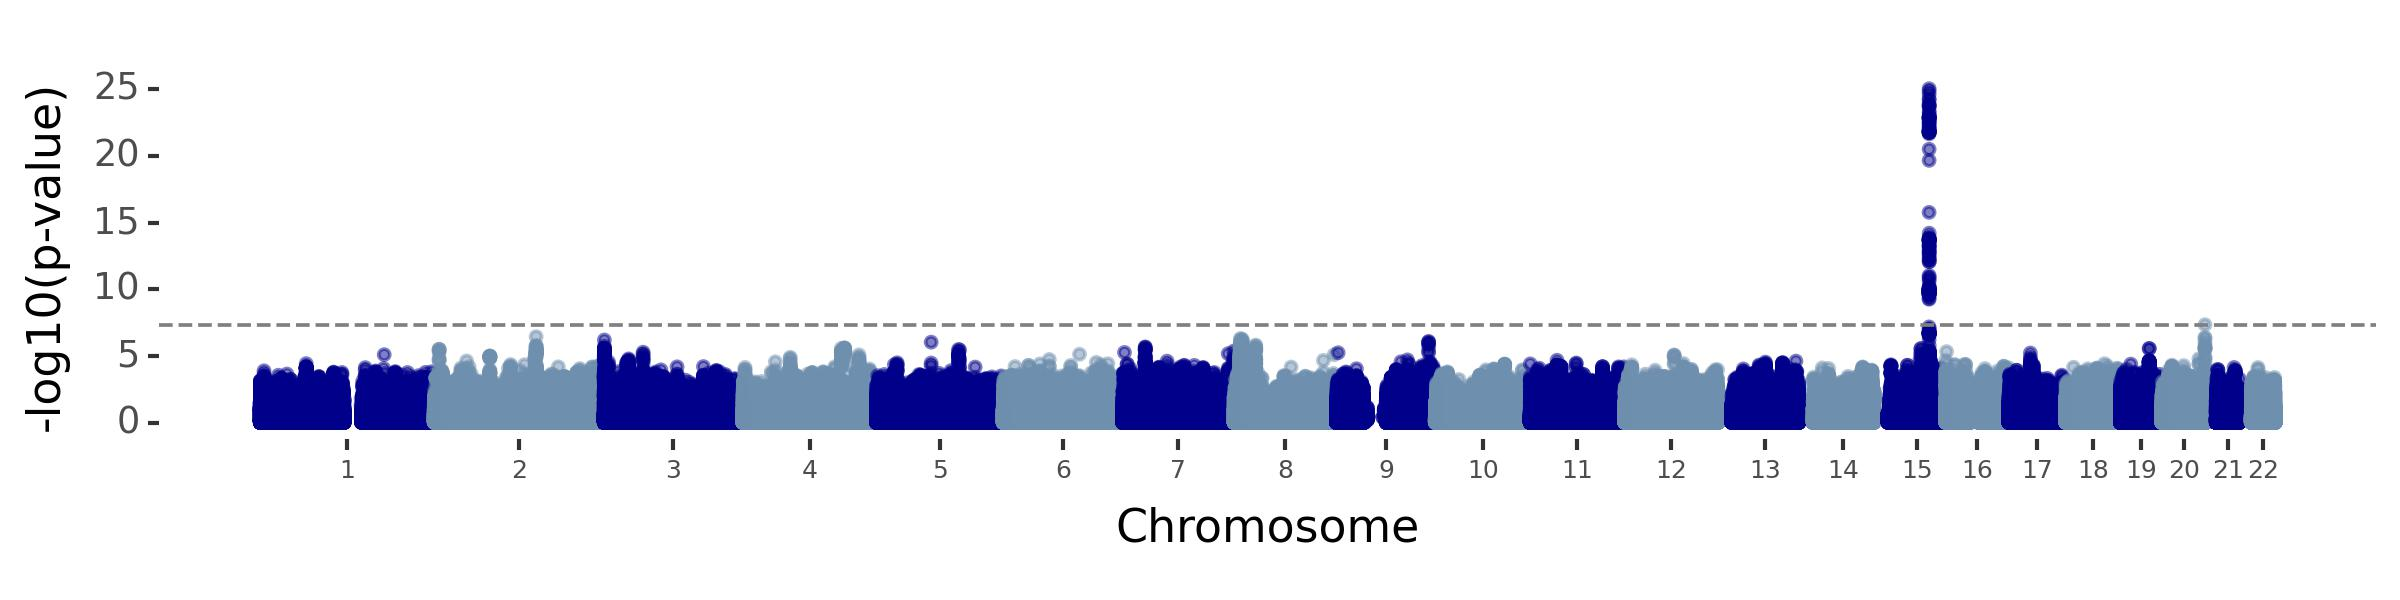
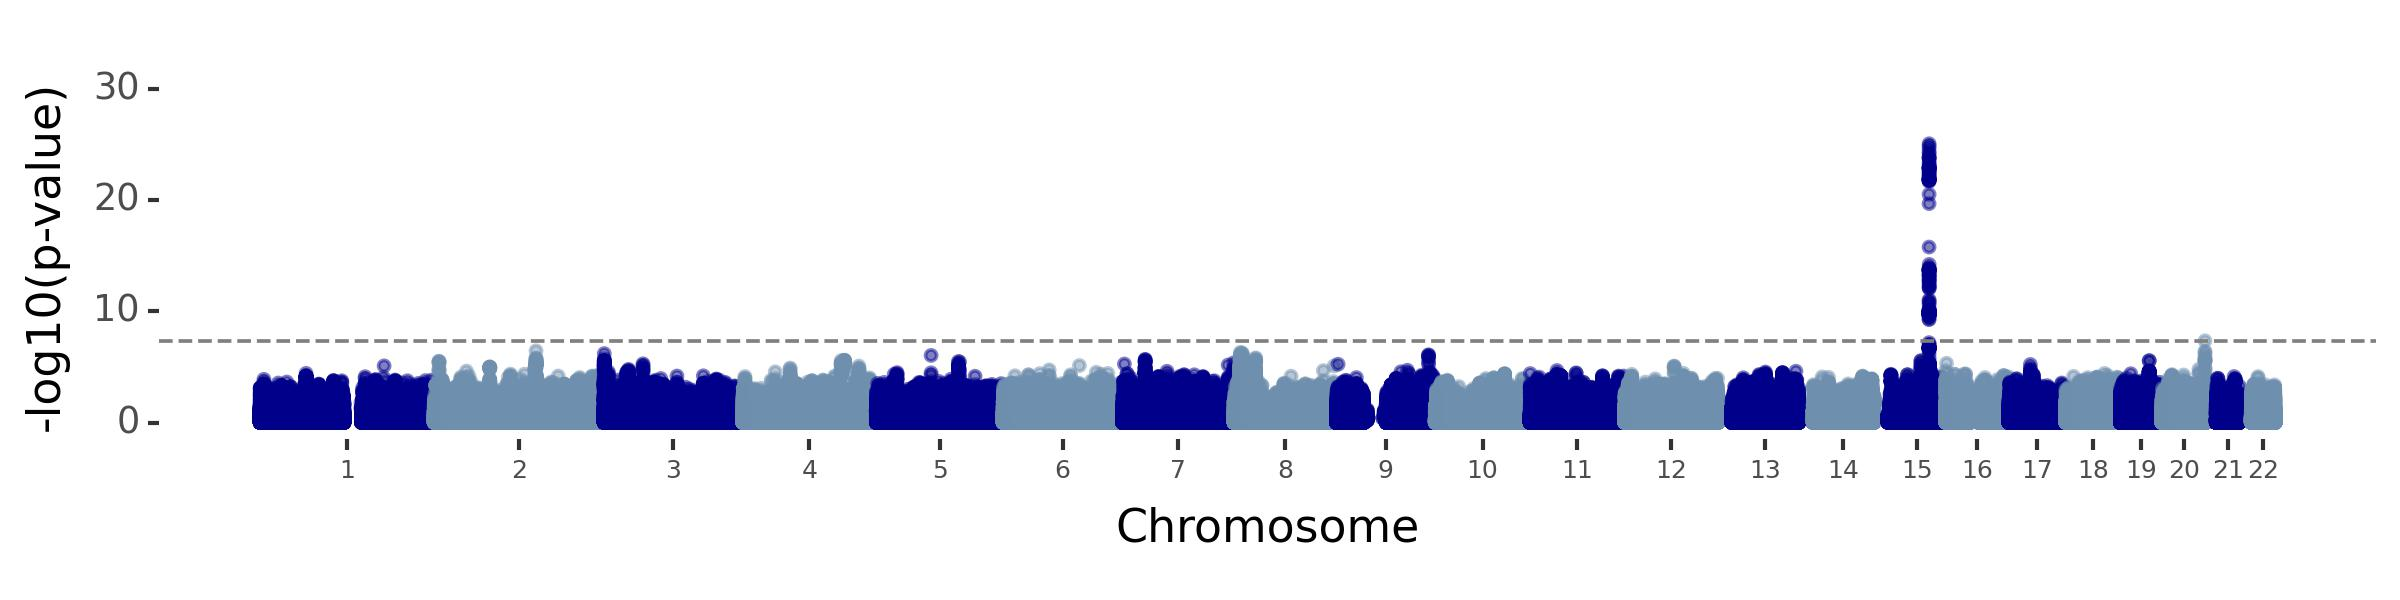
added test and updated ylim of manhattan plots

diff --git a/analysis/test_analysis.py b/analysis/test_analysis.py
@@ -53,7 +53,7 @@ class TestUKBBPrevCoPrev(unittest.TestCase):
                 self.assertEqual(row['Count_ukbb'],'Diagnoses <= 20')
                 self.assertEqual(row['Prev_ukbb'],'Diagnoses <= 20')
             else:
-                self.assertEqual(int(row['Count_ukbb']),df.iloc[0]['count'])
+                self.assertEqual(int(row['Count_ukbb']),df.iloc[0]['count']), f"not working for row {row}"
                 self.assertEqual(float(row['Prev_ukbb']),int(row['Count_ukbb'])/int(row['N_ukbb']))
         # PII check - counts greater than 20
         # assert that no counts less than 20
@@ -194,7 +194,9 @@ class TestGWAS(unittest.TestCase):
         self.imputation_dir = f'{ukbb_data_dir}/ImputationV3'
         # Create the database engine using the configuration
         self.engine = create_engine(f'postgresql://{username}:{password}@{host}/{database}')
-        self.covar_iids = set(pd.read_csv(f'{self.Atlas2AoU_gwas_dir}/COVARIATE_FILE').IID.unique())
+        self.covar_iids = set(pd.read_csv(f'{ukbb_data_dir}/anewbury/COVARIATE_FILE').IID.unique())
+        # for checking qc
+        self.qc_data = pd.read_csv(f'{ukbb_data_dir}/anewbury/SNPS/qc_data.csv')
     
     # read in pheno file and make sure correct
     def test_pheno_file(self):
@@ -227,10 +229,10 @@ class TestGWAS(unittest.TestCase):
                         if line.startswith(f"  --{param}"):
                             self.assertEqual(line, f"  --{param} {param_value}\n")
         # test genotype qc - 
-        with open(f'{self.ukbb_data_dir}/anewbury/SNPS/pass_info_score_and_dup.txt') as f:
+        with open(f'{ukbb_data_dir}/anewbury/SNPS/pass_info_score_and_dup.txt') as f:
             passed_gqc = f.readlines()
             passed_gqc = [i.strip('\n') for i in passed_gqc]
-        file_qc_bim_df = pd.read_csv(f'{self.ukbb_data_dir}/anewbury/SNPS/FILE_QC.bim', sep='\t', header=None)
+        file_qc_bim_df = pd.read_csv(f'{ukbb_data_dir}/anewbury/SNPS/FILE_QC.bim', sep='\t', header=None)
         file_qc_bim_df.columns = ['#CHROM', 'ID', 'cM', 'POS', 'Allele1', 'Allele2']
         file_qc_bim_df['passed'] = file_qc_bim_df['ID'].isin(passed_gqc)
         # ensure no duplicate rsids
@@ -262,27 +264,27 @@ class TestGWAS(unittest.TestCase):
         # check numbers
         assert len(passed_gqc) == 3686405
         # test that passed_gqc are the only ones in FINAL_QC.bim
-        final_qc_bim_df = pd.read_csv(f'{self.ukbb_data_dir}/anewbury/SNPS/FINAL_QC.bim', sep='\t', header=None)
+        final_qc_bim_df = pd.read_csv(f'{ukbb_data_dir}/anewbury/SNPS/FINAL_QC.bim', sep='\t', header=None)
         final_qc_bim_df.columns = ['#CHROM', 'ID', 'cM', 'POS', 'Minor Allele', 'Major Allele']
         assert set(final_qc_bim_df.ID.unique()) == set(passed_gqc)
 
         # test sample qc - 
         # check that all samples in sample_out are: (1) not negative IIDs (not withdrawn) (2) not with F_MISS above 0.05 (not missing) (3) not in king matrix more than 10 times
-        passed_sqc = pd.read_csv(f'{self.ukbb_data_dir}/anewbury/SNPS/pass_sample_qc.txt', sep='\t', header = None)
+        passed_sqc = pd.read_csv(f'{ukbb_data_dir}/anewbury/SNPS/pass_sample_qc.txt', sep='\t', header = None)
         passed_sqc.columns = ['FID','IID']
         passed_sqc = passed_sqc.IID.unique().tolist()
         assert all([i>0 for i in passed_sqc]) # none withdrawn
-        miss = pd.read_csv(f'{self.ukbb_data_dir}/DirectAssayed/sample_qc/missing.imiss', sep='\s+')
+        miss = pd.read_csv(f'{ukbb_data_dir}/DirectAssayed/sample_qc/missing.imiss', sep='\s+')
         assert miss[(miss.IID.isin(passed_sqc))&(miss.F_MISS>0.05)].shape[0] == 0 # not missing
-        result = subprocess.run(['cmp', '-s', f'{self.ukbb_data_dir}/anewbury/SNPS/pass_sample_qc.txt', f'{self.ukbb_data_dir}/DirectAssayed/sample_qc/kingunrelated.txt'], capture_output=True)
+        result = subprocess.run(['cmp', '-s', f'{ukbb_data_dir}/anewbury/SNPS/pass_sample_qc.txt', f'{ukbb_data_dir}/DirectAssayed/sample_qc/kingunrelated.txt'], capture_output=True)
         assert result.returncode == 0
 
         # check that all other samples in FILE_QC are one of the following ^ and make sure qc data matches
         # read in file_qc_fam
-        fam_df = pd.read_csv(f'{self.ukbb_data_dir}/DirectAssayed/merged_direct.fam', sep='\t', header=None)
+        fam_df = pd.read_csv(f'{ukbb_data_dir}/DirectAssayed/merged_direct.fam', sep='\t', header=None)
         fam_df.columns = ['FID', 'IID', 'Father', 'Mother', 'Sex', 'Phenotype']
         not_passed_sqc = set(fam_df.IID.unique().tolist())-set(passed_sqc)
-        imputed_fam_df = pd.read_csv(f'{self.ukbb_data_dir}/anewbury/SNPS/FILE_QC.fam', sep='\s+', header=None)
+        imputed_fam_df = pd.read_csv(f'{ukbb_data_dir}/anewbury/SNPS/FILE_QC.fam', sep='\s+', header=None)
         imputed_fam_df.columns = ['FID', 'IID', 'Father', 'Mother', 'Sex', 'Phenotype']
         # remove not in imputed
         not_passed_sqc = [i for i in not_passed_sqc if i in imputed_fam_df.IID.unique()]
@@ -296,7 +298,7 @@ class TestGWAS(unittest.TestCase):
         assert self.qc_data[self.qc_data['qc type']=='miss']['# removed'].values[0] == init_len-len(not_passed_sqc)
         # remove high relatedness
         init_len = len(not_passed_sqc)
-        unrelated_toberemoved = pd.read_csv(f'{self.ukbb_data_dir}/DirectAssayed/sample_qc/kingunrelated_toberemoved.txt', sep='\t', header=None)
+        unrelated_toberemoved = pd.read_csv(f'{ukbb_data_dir}/DirectAssayed/sample_qc/kingunrelated_toberemoved.txt', sep='\t', header=None)
         not_passed_sqc = [i for i in not_passed_sqc if i not in unrelated_toberemoved[1].unique().tolist()]
         assert self.qc_data[self.qc_data['qc type']=='relatedness']['# removed'].values[0] == unrelated_toberemoved.shape[0]
         # should be empty
@@ -304,7 +306,7 @@ class TestGWAS(unittest.TestCase):
     
     def test_covar_file(self):
         # make sure that age, gender, FID and PCs are correct
-        covar = pd.read_csv(f'{self.ukbb_data_dir}/anewbury/COVARIATE_FILE')
+        covar = pd.read_csv(f'{ukbb_data_dir}/anewbury/COVARIATE_FILE')
         covar = covar.rename(columns={'Sex':'sex'})
         covar['yob'] = 2012-covar['Age']
         covar['sex'] = covar['sex'].apply(lambda x: 8507 if x == 0 else 8532)
@@ -314,7 +316,7 @@ class TestGWAS(unittest.TestCase):
         # batch 
         bileve_iids = covar[covar['Array']==0].index.unique()
         non_bileve_iids = covar[covar['Array']!=0].index.unique()
-        bileve_miss = pd.read_csv(f'{self.ukbb_data_dir}/DirectAssayed/sample_qc/bileve_check.smiss', sep='\s+')
+        bileve_miss = pd.read_csv(f'{ukbb_data_dir}/DirectAssayed/sample_qc/bileve_check.smiss', sep='\s+')
         assert set(bileve_iids).issubset(set(bileve_miss[bileve_miss['F_MISS']!=1].IID.unique()))
         assert set(non_bileve_iids).issubset(set(bileve_miss[bileve_miss['F_MISS']==1].IID.unique()))
 
@@ -326,7 +328,7 @@ class TestGWAS(unittest.TestCase):
         assert df.equals(covar[['sex','yob']])
 
         # check PCs
-        pcs = pd.read_csv(f'{self.ukbb_data_dir}/DirectAssayed/sample_qc/pcs.txt', sep='\t')
+        pcs = pd.read_csv(f'{ukbb_data_dir}/DirectAssayed/sample_qc/pcs.txt', sep='\t')
         pcs.set_index('IID',inplace=True)
         pcs.sort_index(inplace=True)
         pc_columns = [f'PC{i}' for i in range(1,21)]
@@ -334,7 +336,7 @@ class TestGWAS(unittest.TestCase):
         assert pcs.equals(covar[['FID']+pc_columns])
 
         # check that covar only includes final samples
-        passed_sqc = pd.read_csv(f'{self.ukbb_data_dir}/anewbury/SNPS/pass_sample_qc.txt', sep='\t', header=None)
+        passed_sqc = pd.read_csv(f'{ukbb_data_dir}/anewbury/SNPS/pass_sample_qc.txt', sep='\t', header=None)
         passed_sqc.columns=['FID','IID']
         passed_sqc = passed_sqc.IID.unique().tolist()
         assert set(passed_sqc) == set(pcs.index)
@@ -348,7 +350,7 @@ class TestGWAS(unittest.TestCase):
                 assert (f'Results written to {self.Atlas2AoU_gwas_dir}/PHENO_{cohortId}/RESULTS_FILE.Phenotype.glm.logistic.hybrid' in log_file)
 
                 # make sure correct snps written
-                assert f'{self.ukbb_data_dir}/SNPS/FINAL_QC.bim' in log_file
+                assert f'{ukbb_data_dir}/anewbury/SNPS/FINAL_QC.bim' in log_file
 
     def test_gwas_exons(self):
         gtf = get_gtf(gtf_annot_path)
@@ -369,7 +371,9 @@ class TestGWAS(unittest.TestCase):
                     if df[(df['POS']<row['end'])&(df['POS']>row['start'])&(df['#CHROM']==row['seqname'])].shape[0] >0:
                         snp_in_rgn += 1
                 assert snp_in_rgn>0
-    def test_err_code(self):
+    def test_err_code_and_firth(self):
         for cohortId in [28,288,71]:
             plink_results = pd.read_csv(f'{ukbb_data_dir}/Atlas2AoU/PHENO_{cohortId}/RESULTS_FILE.Phenotype.glm.logistic.hybrid',sep='\t')
             assert plink_results['ERRCODE'].unique().tolist() == ['.']
+            assert plink_results['FIRTH?'].unique().tolist() == ['N'] # check no firth fallback
+        

diff --git a/analysis/py_files/ExtraFixManhattanPlots.py b/analysis/py_files/ExtraFixManhattanPlots.py
@@ -1,0 +1,47 @@
+import pandas as pd
+import numpy as np
+import argparse 
+from plotnine import *
+
+# update manhattan plots by changing ylim
+
+ukbb_data_dir = '/gpfs/commons/datasets/controlled/ukbb-gursoylab'
+parser = argparse.ArgumentParser(description='Process parameters.')
+parser.add_argument('--ukbb_data_dir', type=str, help='ukbb data directory',default='')
+parser.add_argument('--analysis_output_dir', type=str, help='analysis output directory (in aou-atlas-phenotyping folder)',default='')
+args = parser.parse_args()
+
+
+# alter make_manhattan_plot defn
+def make_manhattan_plot_ylim(plink_results, output_path, cohortId,db, ylim):
+    plink_results = plink_results[plink_results['TEST']=='ADD'].copy()
+    plink_results['color_group'] = plink_results['#CHROM'] % 2
+    # get chromosome midpoint and adjust pos for graphing
+    chromosome_lengths = plink_results.groupby('#CHROM')['POS'].max()
+    chromosome_starts = chromosome_lengths.cumsum().shift(1).fillna(0)
+    plink_results = plink_results.merge(chromosome_starts.rename('start_pos'), on='#CHROM')
+    plink_results['adjusted_POS'] = plink_results['POS'] + plink_results['start_pos']
+    chromosome_mid = plink_results.groupby('#CHROM')['adjusted_POS'].apply(lambda x: (x.min() + x.max()) / 2)
+    chromosome_mid = chromosome_mid.to_dict()
+    plink_results['#CHROM'] = pd.Categorical(plink_results['#CHROM'])
+    # -log(p-value)
+    plink_results['minuslog10p'] = -np.log10(plink_results['P'])
+    assert plink_results['minuslog10p'].max() < ylim
+    plot = (ggplot(plink_results) 
+    + geom_point(aes(x='adjusted_POS', y='minuslog10p', colour='factor(color_group)'), alpha=0.5,size=1)  # Plot points colored by chromosome
+    + scale_color_manual(values=["#6F8FAF", "#00008B"],guide=False)
+    + labs(x='Chromosome', y='-log10(p-value)')  
+    + theme(panel_grid=element_blank(),panel_border=element_blank(),legend_position=None, panel_background=element_rect(fill='white'),axis_text_x=element_text(size=6),figure_size=(8,2)) 
+    + scale_x_continuous(labels=list(chromosome_mid.keys()), breaks=list(chromosome_mid.values()))
+    + geom_hline(yintercept=-np.log10(5e-8), colour='grey',linetype='dashed', color='gray')
+    + coord_cartesian(ylim=(0, ylim))
+
+    )
+    plot.save(f'{output_path}/Manhattan_Plot_c{cohortId}_{db}.jpeg', dpi=300)
+
+# once job is finished, create manhattan plot
+ylim_dict = {28:30, 288:225, 71:45}
+for cohortId in [28,288,71]:
+    plink_results = pd.read_csv(f'{args.ukbb_data_dir}/Atlas2AoU/PHENO_{cohortId}/RESULTS_FILE.Phenotype.glm.logistic.hybrid',sep='\t')
+    assert plink_results['ERRCODE'].unique().tolist() == ['.']
+    make_manhattan_plot_ylim(plink_results,args.analysis_output_dir,cohortId,'ukbb',ylim_dict[cohortId])
